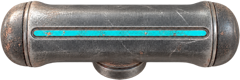
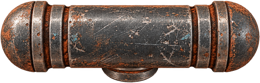
RedPawAmp: the lever's grip heavy, rusty and scratched like the rest
Same view from above, a new render: a thick cast T-handle with grooved bands at its rounded ends, worn,
scratched and rusting, dust in its grooves — no sleek line of light. It is drawn larger, out over the
plate's edge from a notch, and the lever's box reaches that far so the grip is never cut.

diff --git a/src/redpaw/RedPawEditor.cpp b/src/redpaw/RedPawEditor.cpp
@@ -263,9 +263,11 @@ RedPawEditor::RedPawEditor (AmpProcessor& p)
     view.addMouseListener (&glassClicks, false);
     glassClicks.menu = [this] { showWindowMenu(); };
 
-    // THE GEAR LEVER: the pedal, and everything its channel was left with.
+    // THE GEAR LEVER: the pedal, and everything its channel was left with. Its box is the gate's plate
+    // and, on the right, as far as the grip reaches over the plate's edge from a notch, with its shadow.
     addToStage (lever);
-    lever.setBounds (juce::Rectangle<float> (GearLever::left, GearLever::top, gearPlate.getRight() - GearLever::left,
+    const float leverRight = juce::jmax (gearPlate.getRight(), notchX + leverWidth * 0.5f + 8.0f);
+    lever.setBounds (juce::Rectangle<float> (GearLever::left, GearLever::top, leverRight - GearLever::left,
                                              gearPlate.getBottom() - GearLever::top).toNearestInt());
     lever.onPosition = [this] (int at) { if (at == GearLever::park) parkIt(); else pullGear (at - GearLever::positionOf (0)); };
     lever.onRelease  = [this] { showChannel(); };  // held, it follows the hand; let go, it follows the state

diff --git a/src/redpaw/RedPawLayout.h b/src/redpaw/RedPawLayout.h
@@ -82,7 +82,7 @@ inline constexpr float slotX  = 798.3f;         // the stem in the slot
 inline constexpr float notchX = 814.0f;         // ...and in a notch
 inline constexpr float slotTopY = 694.0f;       // PARK: the stem at the slot's top end
 inline const std::array<float, 3> notches {{ 733.8f, 776.0f, 817.5f }};     // the notches' middles
-inline constexpr float leverWidth = 92.0f;      // the lever's render, grip and collar, this wide: nearly the plate's
+inline constexpr float leverWidth = 104.0f;     // the lever's render, grip and collar, this wide: in a notch a little over the plate's edge
 inline constexpr float collarSink = 3.0f;       // how far the collar's foot goes past the position, into the slot
 inline const juce::Rectangle<float> gearPlate { 742.0f, 655.0f, 116.0f, 222.0f };
 

diff --git a/src/redpaw/RedPawControls.cpp b/src/redpaw/RedPawControls.cpp
@@ -19,7 +19,7 @@ namespace
 
     /** Where the grip's bar ends and its collar begins on the lever's render, down from its top — a
         fraction of the render's height. */
-    constexpr float barBottom = 0.72f;
+    constexpr float barBottom = 0.85f;
 }
 
 juce::Rectangle<float> GearLever::leverBox (float y, float x) const
